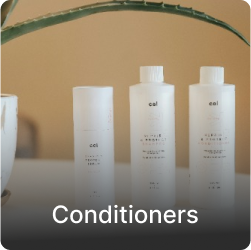
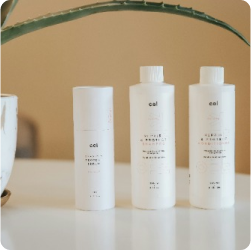
Replaced Images and added hover animation on images

diff --git a/src/pages/TopCategories.jsx b/src/pages/TopCategories.jsx
@@ -52,21 +52,21 @@ export default function TopCategories() {
 
           <section className="mt-16 text-black text-xl">
             <div className="grid grid-cols-2 md:grid-cols-2 lg:grid-cols-4 gap-8 mx-4 md:mx-16 pb-10">
-              <div className="flex flex-col items-center mb-4 md:mb-0">
+              <div className="relative group flex flex-col items-center mb-4 md:mb-0">
                 <img src={b1} alt="Best Seller" className="w-60 h-60 rounded-lg object-cover mb-2"/>
-                <p className="text-center font-bold pt-5">Best Seller's</p>
+                <p className="flex justify-center items-center font-bold pt-5">Best Seller's</p>
               </div>
-              <div className="flex flex-col items-center mb-4 md:mb-0">
+              <div className="relative group flex flex-col items-center mb-4 md:mb-0">
                 <img src={b2} alt="Trending Products" className="w-60 h-60 rounded-lg object-cover mb-2"/>
-                <p className="text-center font-bold pt-5">Trending Products</p>
+                <p className="flex justify-center items-center font-bold pt-5">Trending Products</p>
               </div>
-              <div className="flex flex-col items-center mb-4 md:mb-0">
+              <div className="relative group flex flex-col items-center mb-4 md:mb-0">
                 <img src={b3} alt="Top Products" className="w-60 h-60 rounded-lg object-cover mb-2"/>
-                <p className="text-center font-bold pt-5">Top Products</p>
+                <p className="flex justify-center items-center font-bold pt-5">Top Products</p>
               </div>
-              <div className="flex flex-col items-center mb-4 md:mb-0">
+              <div className="relative group flex flex-col items-center mb-4 md:mb-0">
                 <img src={b4} alt="Top Brands" className="w-60 h-60 rounded-lg object-cover mb-2"/>
-                <p className="text-center font-bold pt-5">Top Brands</p>
+                <p className="flex justify-center items-center font-bold pt-5">Top Brands</p>
               </div>
             </div>
           </section>
@@ -74,17 +74,29 @@ export default function TopCategories() {
           <section className="mt-8">
             <h2 className="text-2xl font-bold mb-4 text-black">Skincare</h2>
             <div className="grid grid-cols-2 md:grid-cols-2 lg:grid-cols-4 gap-4 mx-4 md:mx-16 pb-10 mt-10">
-              <div className="flex flex-col items-center mb-4 md:mb-0">
+              <div className="relative group flex flex-col items-center mb-4 md:mb-0">
                 <img src={s1} alt="Cleansers" className="w-60 h-60 rounded-lg object-cover mb-2"/>
+                <div className="label bg-gray-700/40 w-full h-full max-h-[20px] md:max-h-[30px] flex justify-center items-center text-rose-50 backdrop-blur-sm text-xs md:text-base font-semibold absolute bottom-0 transition-[max-height_.3s_ease] overflow-hidden group-hover:max-h-full cursor-pointer no-underline">
+                  Cleansers
+                </div>
               </div>
-              <div className="flex flex-col items-center mb-4 md:mb-0">
+              <div className="relative group flex flex-col items-center mb-4 md:mb-0">
                 <img src={s2} alt="Moisturizers" className="w-60 h-60 rounded-lg object-cover mb-2"/>
+                <div className="label bg-gray-700/40 w-full h-full max-h-[20px] md:max-h-[30px] flex justify-center items-center text-rose-50 backdrop-blur-sm text-xs md:text-base font-semibold absolute bottom-0 transition-[max-height_.3s_ease] overflow-hidden group-hover:max-h-full cursor-pointer no-underline">
+                  Moisturizers
+                </div>
               </div>
-              <div className="flex flex-col items-center mb-4 md:mb-0">
+              <div className="relative group flex flex-col items-center mb-4 md:mb-0">
                 <img src={s3} alt="Serums" className="w-60 h-60 rounded-lg object-cover mb-2"/>
+                <div className="label bg-gray-700/40 w-full h-full max-h-[20px] md:max-h-[30px] flex justify-center items-center text-rose-50 backdrop-blur-sm text-xs md:text-base font-semibold absolute bottom-0 transition-[max-height_.3s_ease] overflow-hidden group-hover:max-h-full cursor-pointer no-underline">
+                  Serums
+                </div>
               </div>
-              <div className="flex flex-col items-center mb-4 md:mb-0">
+              <div className="relative group flex flex-col items-center mb-4 md:mb-0">
                 <img src={s4} alt="Sun Care" className="w-60 h-60 rounded-lg object-cover mb-2"/>
+                <div className="label bg-gray-700/40 w-full h-full max-h-[20px] md:max-h-[30px] flex justify-center items-center text-rose-50 backdrop-blur-sm text-xs md:text-base font-semibold absolute bottom-0 transition-[max-height_.3s_ease] overflow-hidden group-hover:max-h-full cursor-pointer no-underline">
+                  Sun Care
+                </div>
               </div>
             </div>
           </section>
@@ -92,17 +104,29 @@ export default function TopCategories() {
           <section className="mt-8">
             <h2 className="text-2xl font-bold mb-4 text-black">Makeup</h2>
             <div className="grid grid-cols-2 md:grid-cols-2 lg:grid-cols-4 gap-4 mx-4 md:mx-16 mt-10">
-              <div className="flex flex-col items-center mb-4 md:mb-0">
+              <div className="relative group flex flex-col items-center mb-4 md:mb-0">
                 <img src={m1} alt="Foundations" className="w-60 h-60 rounded-lg object-cover mb-2"/>
+                <div className="label bg-gray-700/40 w-full h-full max-h-[20px] md:max-h-[30px] flex justify-center items-center text-rose-50 backdrop-blur-sm text-xs md:text-base font-semibold absolute bottom-0 transition-[max-height_.3s_ease] overflow-hidden group-hover:max-h-full cursor-pointer no-underline">
+                  Foundations
+                </div>
               </div>
-              <div className="flex flex-col items-center mb-4 md:mb-0">
+              <div className="relative group flex flex-col items-center mb-4 md:mb-0">
                 <img src={m2} alt="Lipsticks" className="w-60 h-60 rounded-lg object-cover mb-2"/>
+                <div className="label bg-gray-700/40 w-full h-full max-h-[20px] md:max-h-[30px] flex justify-center items-center text-rose-50 backdrop-blur-sm text-xs md:text-base font-semibold absolute bottom-0 transition-[max-height_.3s_ease] overflow-hidden group-hover:max-h-full cursor-pointer no-underline">
+                  Lipsticks
+                </div>
               </div>
-              <div className="flex flex-col items-center mb-4 md:mb-0">
+              <div className="relative group flex flex-col items-center mb-4 md:mb-0">
                 <img src={m3} alt="Eyeshadows" className="w-60 h-60 rounded-lg object-cover mb-2"/>
+                <div className="label bg-gray-700/40 w-full h-full max-h-[20px] md:max-h-[30px] flex justify-center items-center text-rose-50 backdrop-blur-sm text-xs md:text-base font-semibold absolute bottom-0 transition-[max-height_.3s_ease] overflow-hidden group-hover:max-h-full cursor-pointer no-underline">
+                  Eyeshadows
+                </div>
               </div>
-              <div className="flex flex-col items-center mb-4 md:mb-0">
+              <div className="relative group flex flex-col items-center mb-4 md:mb-0">
                 <img src={m4} alt="Mascaras" className="w-60 h-60 rounded-lg object-cover mb-2"/>
+                <div className="label bg-gray-700/40 w-full h-full max-h-[20px] md:max-h-[30px] flex justify-center items-center text-rose-50 backdrop-blur-sm text-xs md:text-base font-semibold absolute bottom-0 transition-[max-height_.3s_ease] overflow-hidden group-hover:max-h-full cursor-pointer no-underline">
+                  Mascaras
+                </div>
               </div>
             </div>
           </section>
@@ -116,17 +140,29 @@ export default function TopCategories() {
           <section className="mt-8">
             <h2 className="text-2xl font-bold mb-4 text-black">Haircare</h2>
             <div className="grid grid-cols-2 md:grid-cols-2 lg:grid-cols-4 gap-4 mx-4 md:mx-16 pb-8 mt-10">
-              <div className="flex flex-col items-center mb-4 md:mb-0">
+              <div className="relative group flex flex-col items-center mb-4 md:mb-0">
                 <img src={h1} alt="Shampoos" className="w-60 h-60 rounded-lg object-cover mb-2"/>
+                <div className="label bg-gray-700/40 w-full h-full max-h-[20px] md:max-h-[30px] flex justify-center items-center text-rose-50 backdrop-blur-sm text-xs md:text-base font-semibold absolute bottom-0 transition-[max-height_.3s_ease] overflow-hidden group-hover:max-h-full cursor-pointer no-underline">
+                  Shampoos
+                </div>
               </div>
-              <div className="flex flex-col items-center mb-4 md:mb-0">
+              <div className="relative group flex flex-col items-center mb-4 md:mb-0">
                 <img src={h2} alt="Conditioners" className="w-60 h-60 rounded-lg object-cover mb-2"/>
+                <div className="label bg-gray-700/40 w-full h-full max-h-[20px] md:max-h-[30px] flex justify-center items-center text-rose-50 backdrop-blur-sm text-xs md:text-base font-semibold absolute bottom-0 transition-[max-height_.3s_ease] overflow-hidden group-hover:max-h-full cursor-pointer no-underline">
+                  Conditioners
+                </div>
               </div>
-              <div className="flex flex-col items-center mb-4 md:mb-0">
+              <div className="relative group flex flex-col items-center mb-4 md:mb-0">
                 <img src={h3} alt="Styling Products" className="w-60 h-60 rounded-lg object-cover mb-2"/>
+                <div className="label bg-gray-700/40 w-full h-full max-h-[20px] md:max-h-[30px] flex justify-center items-center text-rose-50 backdrop-blur-sm text-xs md:text-base font-semibold absolute bottom-0 transition-[max-height_.3s_ease] overflow-hidden group-hover:max-h-full cursor-pointer no-underline">
+                  Styling Products
+                </div>
               </div>
-              <div className="flex flex-col items-center mb-4 md:mb-0">
+              <div className="relative group flex flex-col items-center mb-4 md:mb-0">
                 <img src={h4} alt="Hair Tools" className="w-60 h-60 rounded-lg object-cover mb-2"/>
+                <div className="label bg-gray-700/40 w-full h-full max-h-[20px] md:max-h-[30px] flex justify-center items-center text-rose-50 backdrop-blur-sm text-xs md:text-base font-semibold absolute bottom-0 transition-[max-height_.3s_ease] overflow-hidden group-hover:max-h-full cursor-pointer no-underline">
+                  Hair Tools
+                </div>
               </div>
             </div>
           </section>
@@ -134,17 +170,29 @@ export default function TopCategories() {
           <section className="mt-8">
             <h2 className="text-2xl font-bold mb-4 text-black">Beauty Tools & Accessories</h2>
             <div className="grid grid-cols-2 md:grid-cols-2 lg:grid-cols-4 gap-4 mx-4 md:mx-16 pb-8 mt-10">
-              <div className="flex flex-col items-center mb-4 md:mb-0">
+              <div className="relative group flex flex-col items-center mb-4 md:mb-0">
                 <img src={ma1} alt="Brushes TopCategorieslicators" className="w-60 h-60 rounded-lg object-cover mb-2"/>
+                <div className="label bg-gray-700/40 w-full h-full max-h-[20px] md:max-h-[30px] flex justify-center items-center text-rose-50 backdrop-blur-sm text-xs md:text-base font-semibold absolute bottom-0 transition-[max-height_.3s_ease] overflow-hidden group-hover:max-h-full cursor-pointer no-underline">
+                  Brushes & Applicators
+                </div>
               </div>
-              <div className="flex flex-col items-center mb-4 md:mb-0">
+              <div className="relative group flex flex-col items-center mb-4 md:mb-0">
                 <img src={ma2} alt="Mirrors" className="w-60 h-60 rounded-lg object-cover mb-2"/>
+                <div className="label bg-gray-700/40 w-full h-full max-h-[20px] md:max-h-[30px] flex justify-center items-center text-rose-50 backdrop-blur-sm text-xs md:text-base font-semibold absolute bottom-0 transition-[max-height_.3s_ease] overflow-hidden group-hover:max-h-full cursor-pointer no-underline">
+                  Mirrors
+                </div>
               </div>
-              <div className="flex flex-col items-center mb-4 md:mb-0">
+              <div className="relative group flex flex-col items-center mb-4 md:mb-0">
                 <img src={ma3} alt="Makeup Bags" className="w-60 h-60 rounded-lg object-cover mb-2"/>
+                <div className="label bg-gray-700/40 w-full h-full max-h-[20px] md:max-h-[30px] flex justify-center items-center text-rose-50 backdrop-blur-sm text-xs md:text-base font-semibold absolute bottom-0 transition-[max-height_.3s_ease] overflow-hidden group-hover:max-h-full cursor-pointer no-underline">
+                  Makeup Bags
+                </div>
               </div>
-              <div className="flex flex-col items-center mb-4 md:mb-0">
+              <div className="relative group flex flex-col items-center mb-4 md:mb-0">
                 <img src={ma4} alt="Tools" className="w-60 h-60 rounded-lg object-cover mb-2"/>
+                <div className="label bg-gray-700/40 w-full h-full max-h-[20px] md:max-h-[30px] flex justify-center items-center text-rose-50 backdrop-blur-sm text-xs md:text-base font-semibold absolute bottom-0 transition-[max-height_.3s_ease] overflow-hidden group-hover:max-h-full cursor-pointer no-underline">
+                  Tools
+                </div>
               </div>
             </div>
           </section>
